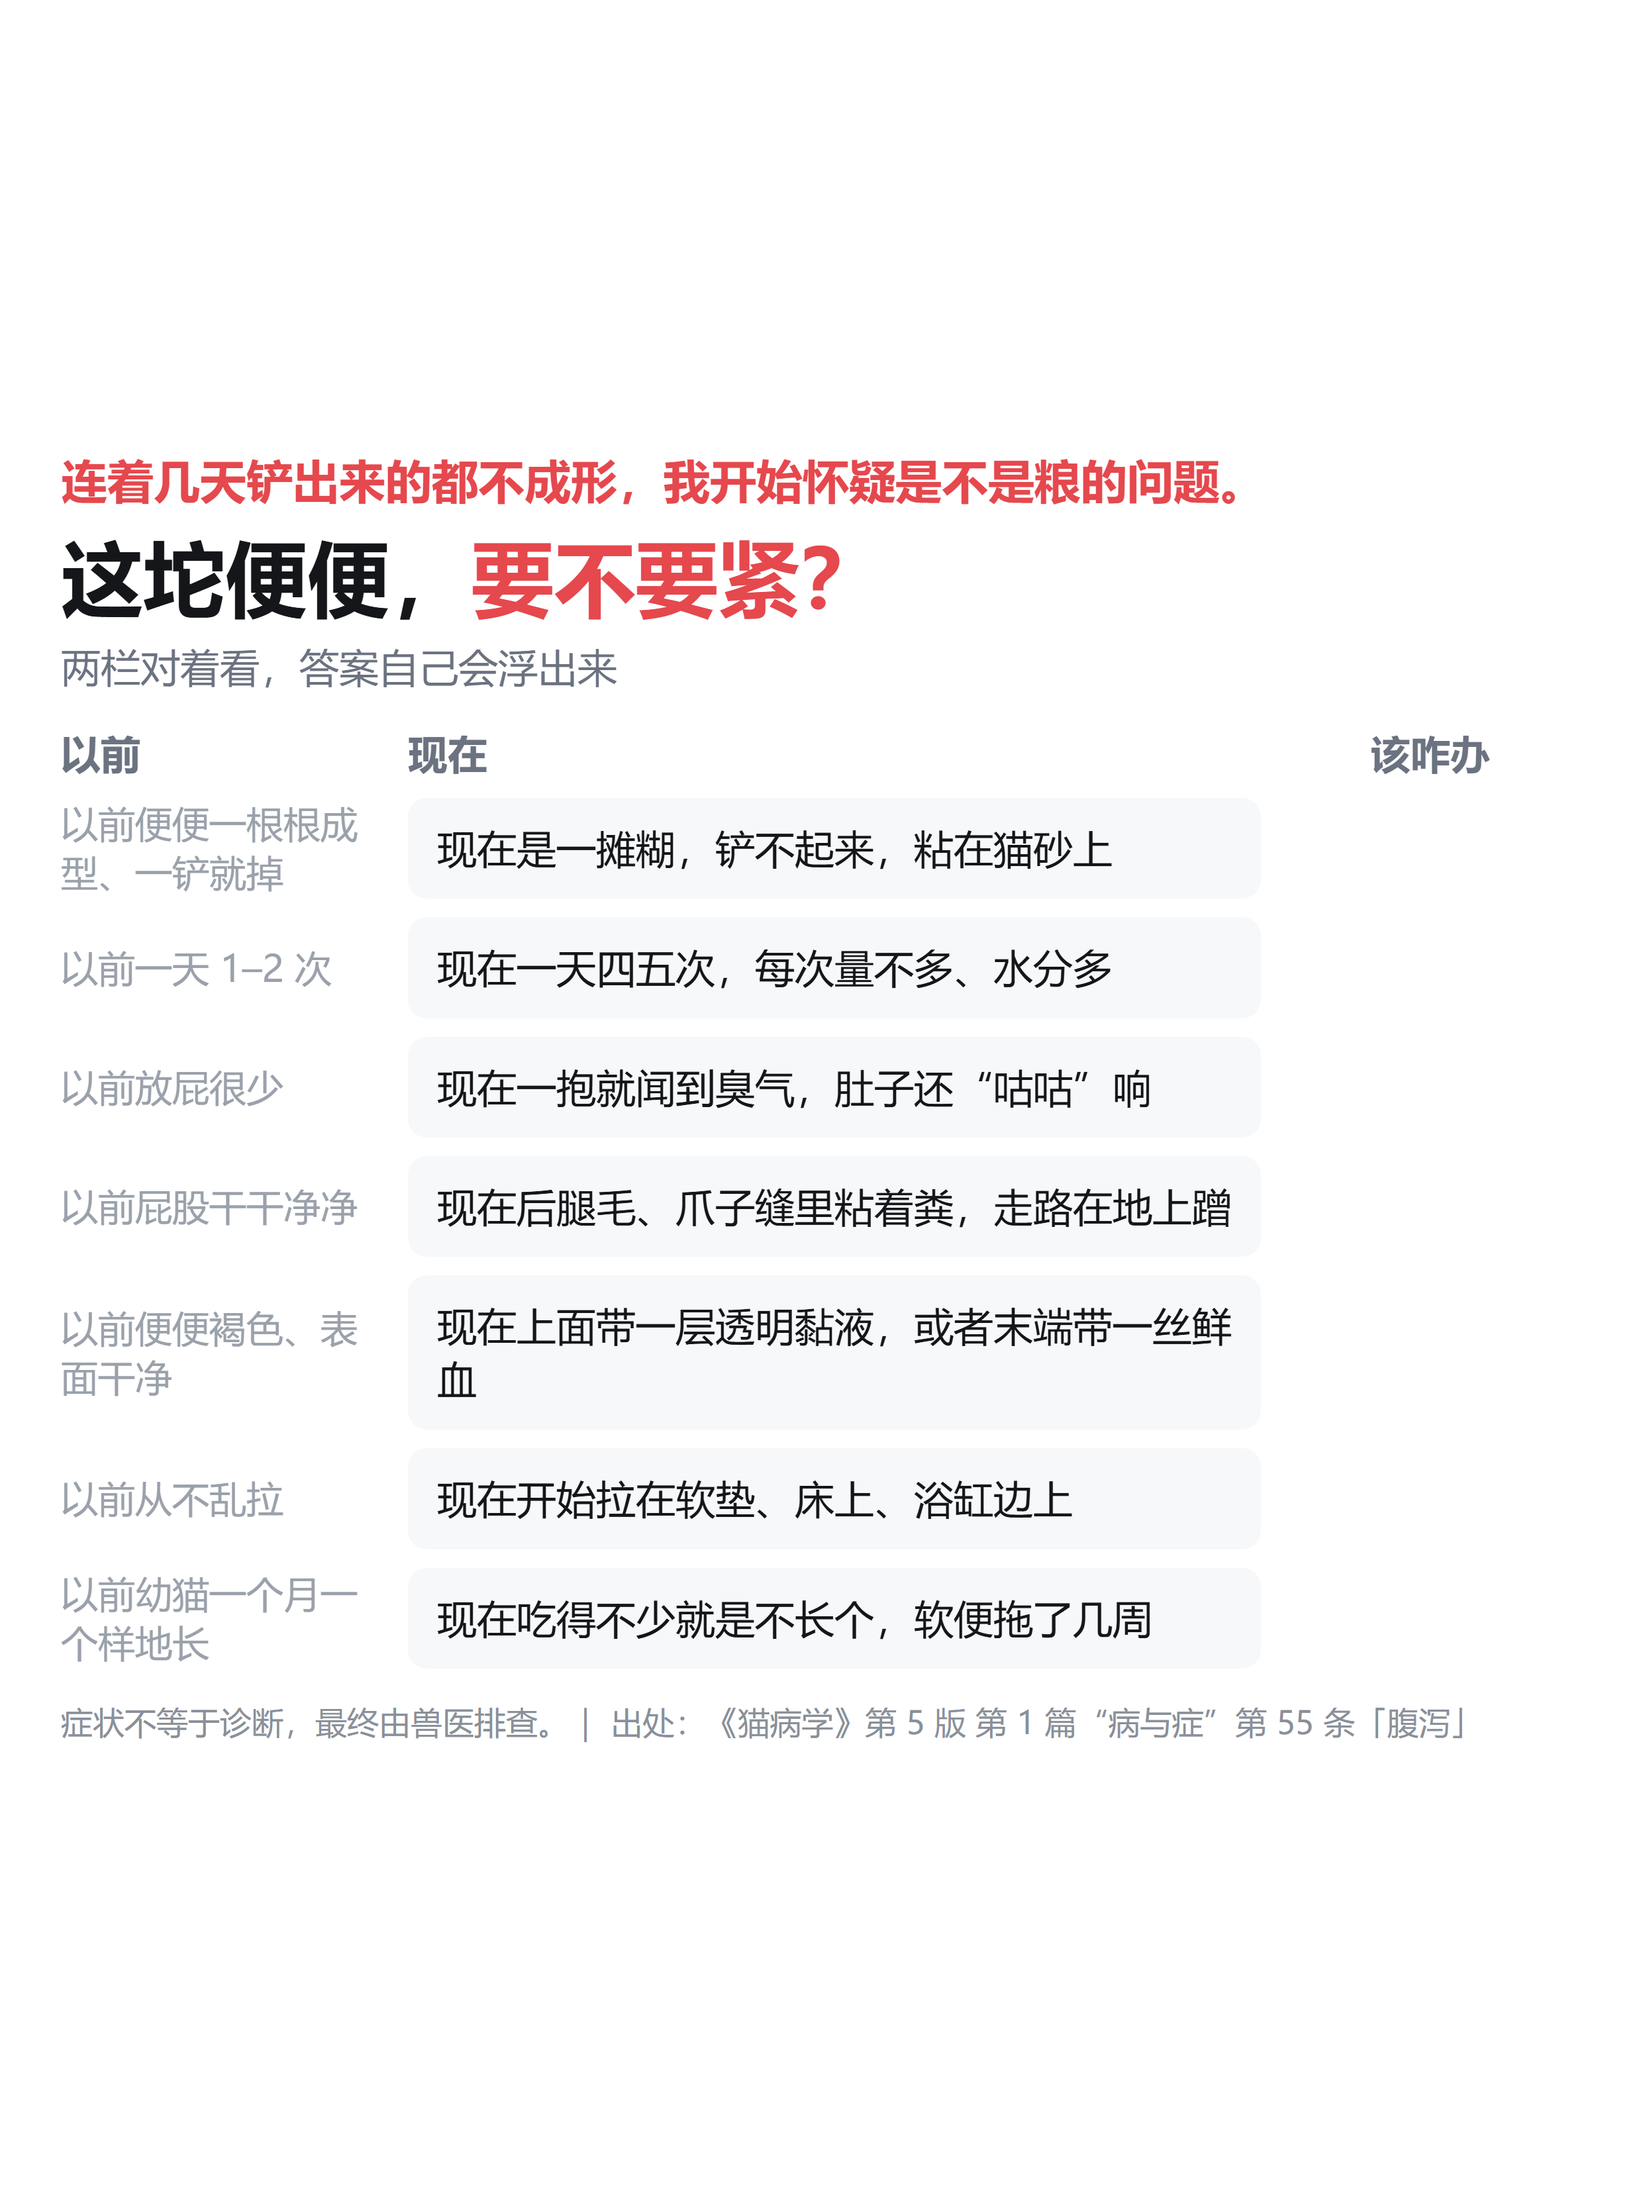
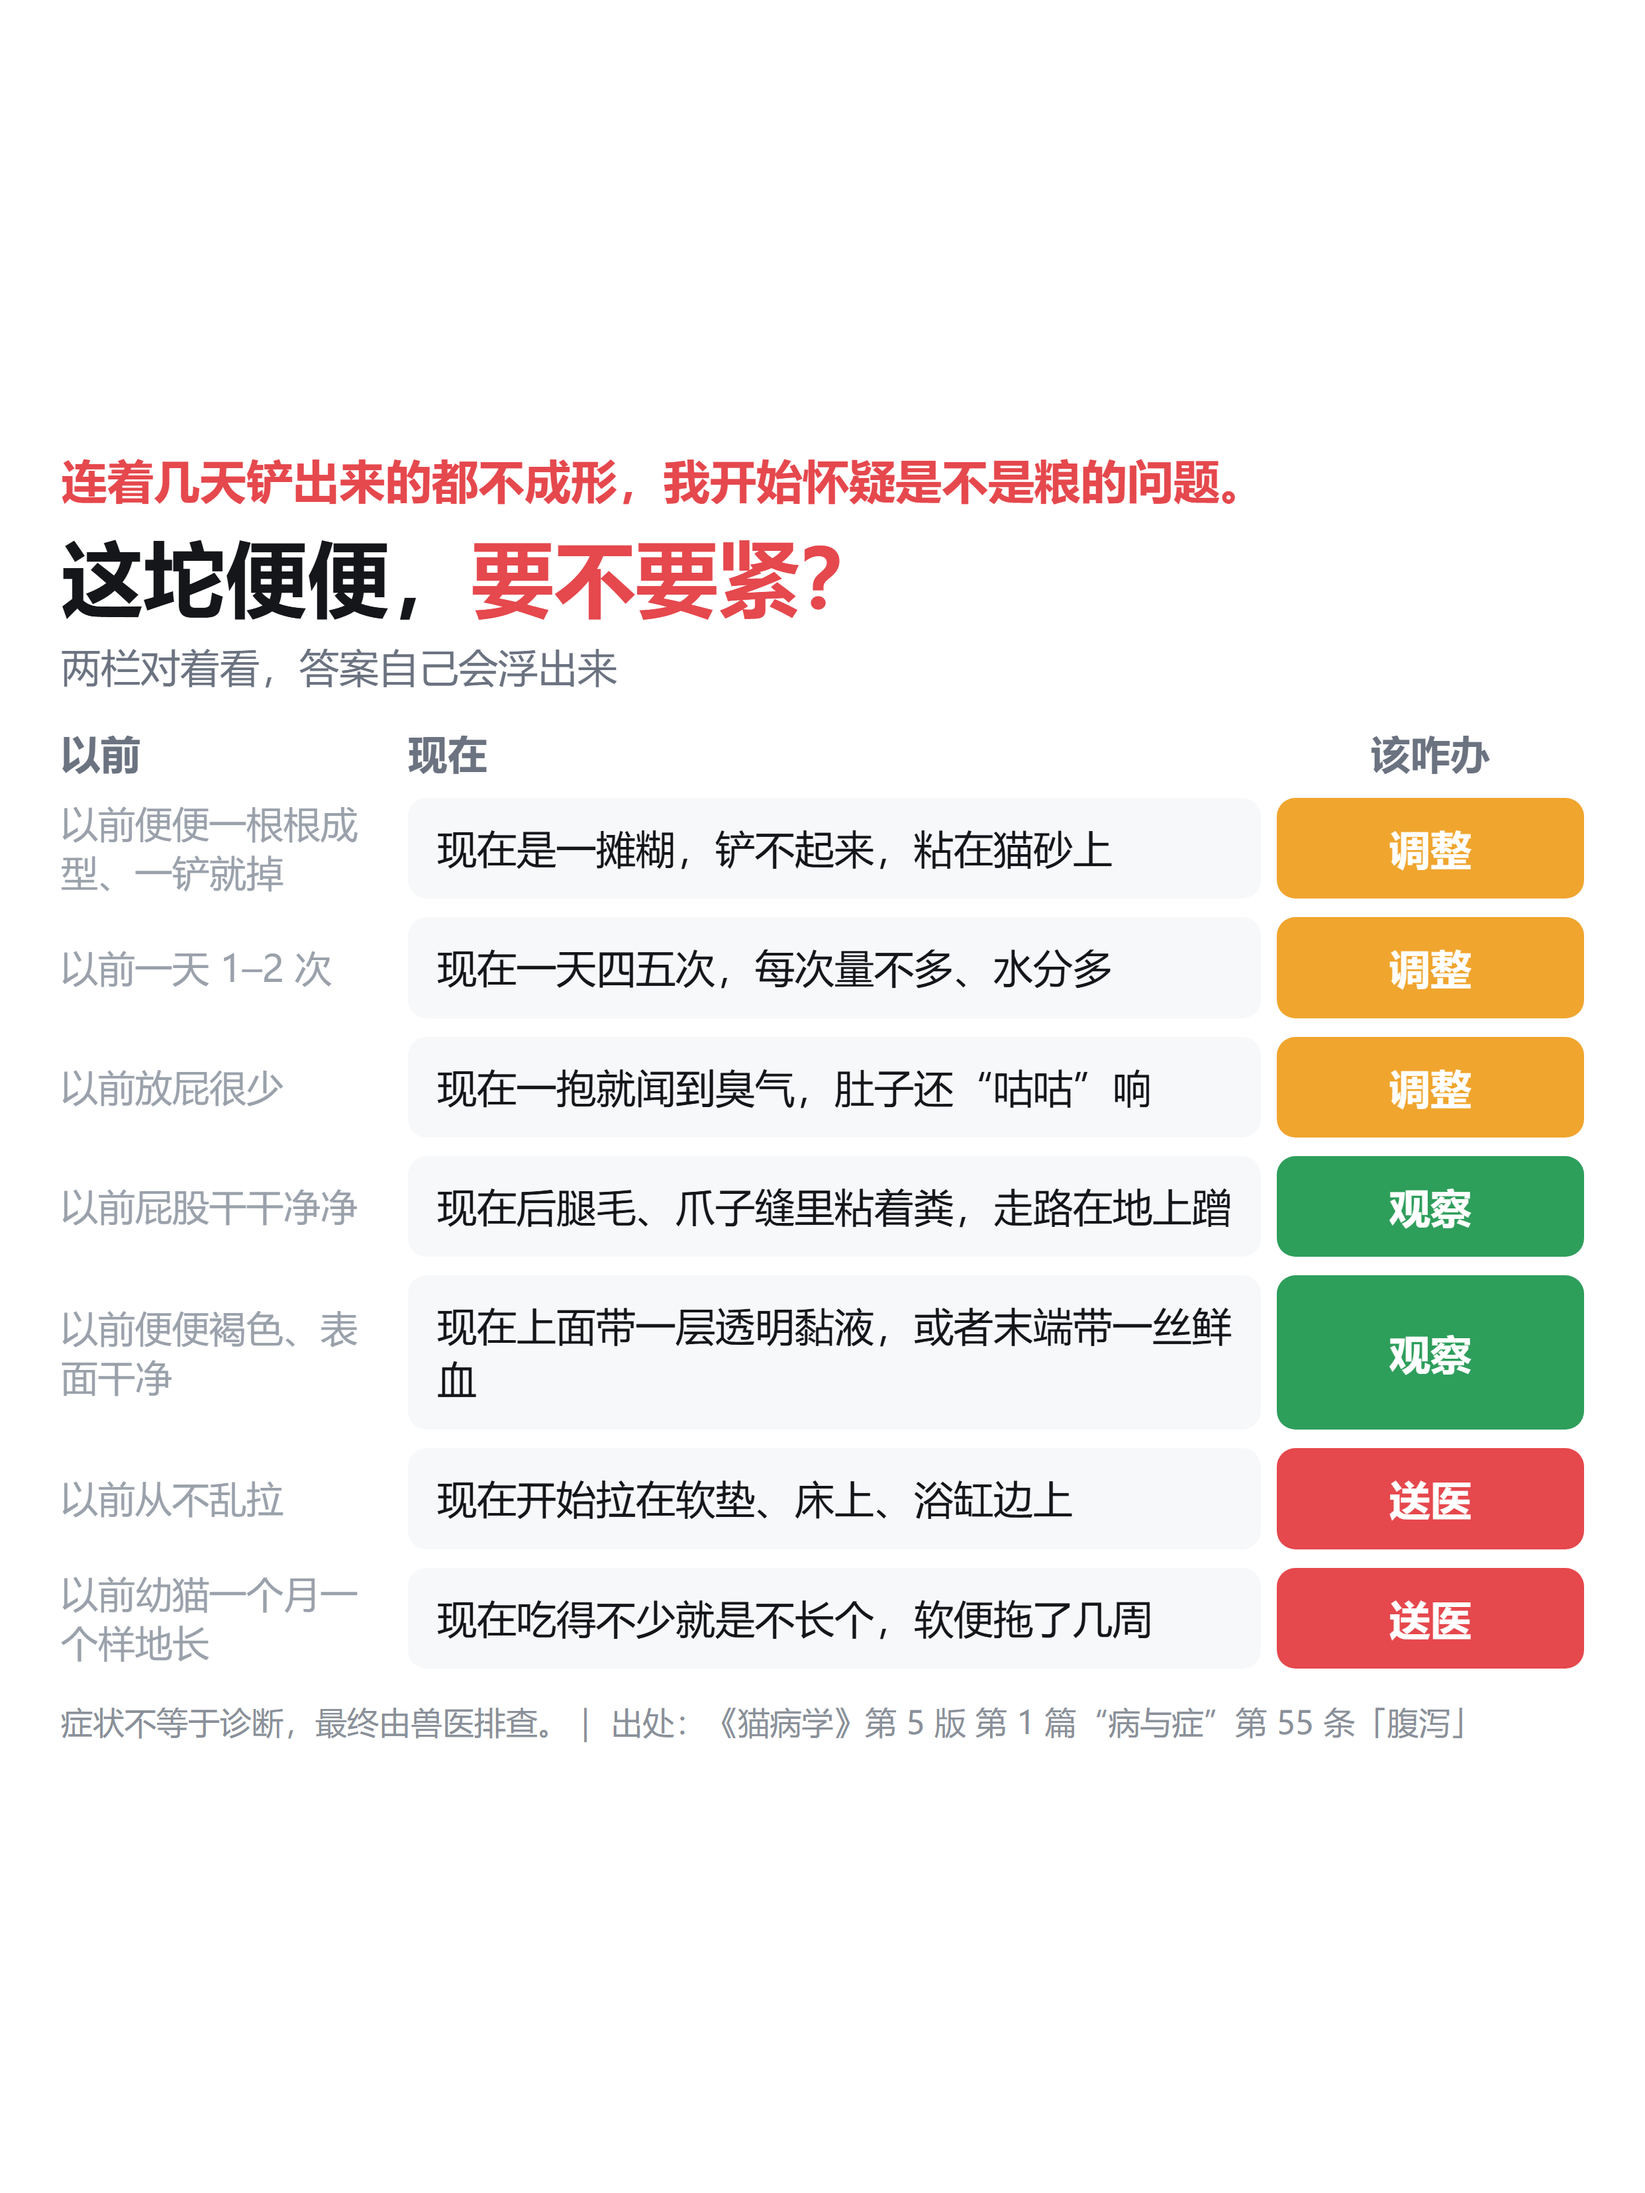
修复：03/04 决策树「该咋办」列 class 与内容写反（class=do 调整>d-a 应为 class=do d-a>调整），共 14 处；重截两张图并看图复核；SKILL §4.6 补该坑（白底白字=整列空白，只有看图能发现）

Changed region(s): [[0.775, 0.3421, 0.961, 0.7775]]

diff --git a/40-产出/主题/猫病症自查百科/成果物/03-软便/定稿/一期/一期3-决策树.html b/40-产出/主题/猫病症自查百科/成果物/03-软便/定稿/一期/一期3-决策树.html
@@ -29,13 +29,13 @@ h1 em { font-style:normal; color:#e5484d; }
   </div>
 
   <div class="rows">
-<div class="row"><div class="before">以前便便一根根成型、一铲就掉</div><div class="now">现在是一摊糊，铲不起来，粘在猫砂上</div><div class="do 调整">d-a</div></div>
-<div class="row"><div class="before">以前一天 1–2 次</div><div class="now">现在一天四五次，每次量不多、水分多</div><div class="do 调整">d-a</div></div>
-<div class="row"><div class="before">以前放屁很少</div><div class="now">现在一抱就闻到臭气，肚子还“咕咕”响</div><div class="do 调整">d-a</div></div>
-<div class="row"><div class="before">以前屁股干干净净</div><div class="now">现在后腿毛、爪子缝里粘着粪，走路在地上蹭</div><div class="do 观察">d-g</div></div>
-<div class="row"><div class="before">以前便便褐色、表面干净</div><div class="now">现在上面带一层透明黏液，或者末端带一丝鲜血</div><div class="do 观察">d-g</div></div>
-<div class="row"><div class="before">以前从不乱拉</div><div class="now">现在开始拉在软垫、床上、浴缸边上</div><div class="do 送医">d-r</div></div>
-<div class="row"><div class="before">以前幼猫一个月一个样地长</div><div class="now">现在吃得不少就是不长个，软便拖了几周</div><div class="do 送医">d-r</div></div>
+<div class="row"><div class="before">以前便便一根根成型、一铲就掉</div><div class="now">现在是一摊糊，铲不起来，粘在猫砂上</div><div class="do d-a">调整</div></div>
+<div class="row"><div class="before">以前一天 1–2 次</div><div class="now">现在一天四五次，每次量不多、水分多</div><div class="do d-a">调整</div></div>
+<div class="row"><div class="before">以前放屁很少</div><div class="now">现在一抱就闻到臭气，肚子还“咕咕”响</div><div class="do d-a">调整</div></div>
+<div class="row"><div class="before">以前屁股干干净净</div><div class="now">现在后腿毛、爪子缝里粘着粪，走路在地上蹭</div><div class="do d-g">观察</div></div>
+<div class="row"><div class="before">以前便便褐色、表面干净</div><div class="now">现在上面带一层透明黏液，或者末端带一丝鲜血</div><div class="do d-g">观察</div></div>
+<div class="row"><div class="before">以前从不乱拉</div><div class="now">现在开始拉在软垫、床上、浴缸边上</div><div class="do d-r">送医</div></div>
+<div class="row"><div class="before">以前幼猫一个月一个样地长</div><div class="now">现在吃得不少就是不长个，软便拖了几周</div><div class="do d-r">送医</div></div>
   </div>
 
   <div class="foot">症状不等于诊断，最终由兽医排查。｜ 出处：《猫病学》第 5 版 第 1 篇“病与症”第 55 条「腹泻」</div>

diff --git a/40-产出/主题/猫病症自查百科/成果物/04-眼屎多/定稿/一期/一期3-决策树.html b/40-产出/主题/猫病症自查百科/成果物/04-眼屎多/定稿/一期/一期3-决策树.html
@@ -29,13 +29,13 @@ h1 em { font-style:normal; color:#e5484d; }
   </div>
 
   <div class="rows">
-<div class="row"><div class="before">眼角干干净净</div><div class="now">早上眼皮糊住，温水敷一下能开，眼珠还是亮的</div><div class="do 调整">d-a</div></div>
-<div class="row"><div class="before">洗脸两下就完</div><div class="now">现在不停用爪子扒眼，脸在地毯上蹭</div><div class="do 调整">d-a</div></div>
-<div class="row"><div class="before">透明一小滴泪痕</div><div class="now">内眼角黄褐色，擦掉第二天又来</div><div class="do 观察">d-g</div></div>
-<div class="row"><div class="before">眼周毛是白的</div><div class="now">被泪水浸成红褐色，摸上去硬邦邦</div><div class="do 观察">d-g</div></div>
-<div class="row"><div class="before">两只眼都睁得开</div><div class="now">一只眼一直眯着、怕光、往暗处躲</div><div class="do 送医">d-r</div></div>
-<div class="row"><div class="before">眼睛黑亮有反光</div><div class="now">像蒙了一层雾，或者眼角有个小白点</div><div class="do 送医">d-r</div></div>
-<div class="row"><div class="before">两边瞳孔一样大</div><div class="now">瞳孔不一样大、形状不齐，眼球看着往外鼓</div><div class="do 送医">d-r</div></div>
+<div class="row"><div class="before">眼角干干净净</div><div class="now">早上眼皮糊住，温水敷一下能开，眼珠还是亮的</div><div class="do d-a">调整</div></div>
+<div class="row"><div class="before">洗脸两下就完</div><div class="now">现在不停用爪子扒眼，脸在地毯上蹭</div><div class="do d-a">调整</div></div>
+<div class="row"><div class="before">透明一小滴泪痕</div><div class="now">内眼角黄褐色，擦掉第二天又来</div><div class="do d-g">观察</div></div>
+<div class="row"><div class="before">眼周毛是白的</div><div class="now">被泪水浸成红褐色，摸上去硬邦邦</div><div class="do d-g">观察</div></div>
+<div class="row"><div class="before">两只眼都睁得开</div><div class="now">一只眼一直眯着、怕光、往暗处躲</div><div class="do d-r">送医</div></div>
+<div class="row"><div class="before">眼睛黑亮有反光</div><div class="now">像蒙了一层雾，或者眼角有个小白点</div><div class="do d-r">送医</div></div>
+<div class="row"><div class="before">两边瞳孔一样大</div><div class="now">瞳孔不一样大、形状不齐，眼球看着往外鼓</div><div class="do d-r">送医</div></div>
   </div>
 
   <div class="foot">症状不等于诊断，最终由兽医排查。｜ 出处：《猫病学》第 5 版 第 1 篇“病与症”第 125 条「角膜炎及结膜炎」</div>

diff --git a/40-产出/主题/猫病症自查百科/技能/xhs-cat-symptom-SKILL.md b/40-产出/主题/猫病症自查百科/技能/xhs-cat-symptom-SKILL.md
@@ -121,7 +121,8 @@ version: 2.8.0
 - 图标用 **CSS 圆点**，禁 emoji（headless 截图变方框）
 - **颜色类与子元素类同名会串色**（改名）
 - **flex 容器混排 `<b>` 会拆字**（改块级）
-- 截图后**必须 Read 看图复核**：溢出 / 孤字 / undefined / NaN
+- 截图后**必须 Read 看图复核**：溢出 / 孤字 / undefined / NaN / **整列空白**
+- **class 与内容写反**（03、04 决策树踩过，2026-10-12）：`<div class="do 调整">d-a</div>` 的正确写法是 `<div class="do d-a">调整</div>`。中文写进了 class、颜色代号写成了内容 → 文字是白的 + 背景色没生效 = **白底白字，整列看起来是空的**。这类错**只有 Read 看图才能发现**，§2 第 5 步"看图复核"绝不能省
 - 截图命令：`chrome --headless=new --disable-gpu --no-sandbox --force-device-scale-factor=2 --window-size=1242,1656 --screenshot=$TEMP/out.png "file:///C:/完整/Windows/路径.html"`
   - ⚠ `file:///` 后面必须是 **Windows 式路径**（`C:/...`）；用 MSYS 式（`/c/...`）会变成 `file:////c/...` 报 `ERR_FILE_NOT_FOUND`
   - ⚠ 输出先落 `$TEMP` 再 `cp` 回中文目录
